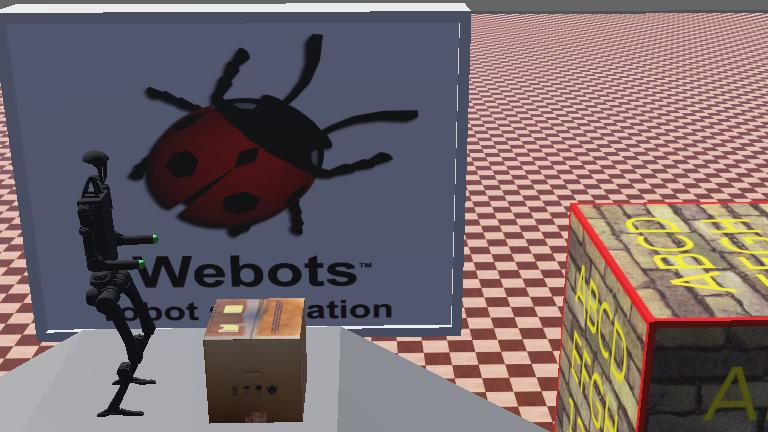
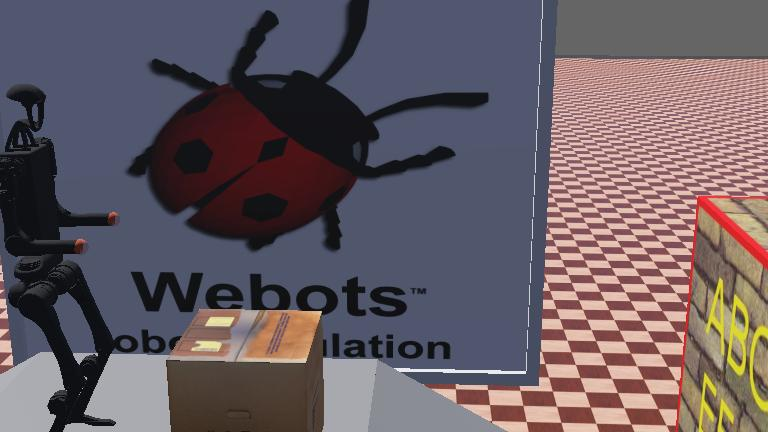
TSV; Add wrist touch sensor under the guidance of example; Remove virtual EE solid which is used to get wrist twist at the stage of debugging stateestimation;

diff --git a/src/unitree_wbc/example/src/webotsInterface.cpp b/src/unitree_wbc/example/src/webotsInterface.cpp
@@ -66,8 +66,8 @@ void WebotsRobot::initWebots()
     Pelvis = robot->getFromDef("UnitreeH1");
     SoleLeft = robot->getFromDef("LeftFootSole");
     SoleRight = robot->getFromDef("RightFootSole");
-    ArmHandLeft = robot->getFromDef("LeftArmSole");
-    ArmHandRight = robot->getFromDef("RightArmSole");
+    // ArmHandLeft = robot->getFromDef("LeftArmSole");
+    // ArmHandRight = robot->getFromDef("RightArmSole");
 
     // Enable sensors
     for (int i = 0; i < NJ; i++) {
@@ -170,26 +170,33 @@ bool WebotsRobot::readData(double simTime, webotsState & robotStateSim)
     robotStateSim.RightSoleXyzRpyAct.head(3) << a3[0], a3[1], a3[2];
     robotStateSim.RightSoleXyzRpyAct.tail(3) = rotm2Rpy(a4);
 
-    //Arm xyz and rpy @Danny240516
-    const double* b1 = ArmHandLeft->getPosition();
-    const double* b2Array = ArmHandLeft->getOrientation();
-    Eigen::Matrix3d b2;
-    b2 << b2Array[0], b2Array[1], b2Array[2],
-        b2Array[3], b2Array[4], b2Array[5],
-        b2Array[6], b2Array[7], b2Array[8];
+    /**
+     * Arm xyz and rpy from webots @Danny240516
+     * \deprecated The virtual EE is used to get wrist's twist; 
+     *             Now substitude it with wrist touch sensor @Danny241023 
+     *  
+     *  const double* b1 = ArmHandLeft->getPosition();
+        const double* b2Array = ArmHandLeft->getOrientation();
+        Eigen::Matrix3d b2;
+        b2 << b2Array[0], b2Array[1], b2Array[2],
+            b2Array[3], b2Array[4], b2Array[5],
+            b2Array[6], b2Array[7], b2Array[8];
 
-    const double* b3 = ArmHandRight->getPosition();
-    const double* b4Array = ArmHandRight->getOrientation();
-    Eigen::Matrix3d b4;
-    b4 << b4Array[0], b4Array[1], b4Array[2],
-        b4Array[3], b4Array[4], b4Array[5],
-        b4Array[6], b4Array[7], b4Array[8];
+        const double* b3 = ArmHandRight->getPosition();
+        const double* b4Array = ArmHandRight->getOrientation();
+        Eigen::Matrix3d b4;
+        b4 << b4Array[0], b4Array[1], b4Array[2],
+            b4Array[3], b4Array[4], b4Array[5],
+            b4Array[6], b4Array[7], b4Array[8];
 
-    robotStateSim.LeftArmHandXyzRpyAct.head(3) << b1[0], b1[1], b1[2];
-    robotStateSim.LeftArmHandXyzRpyAct.tail(3) = rotm2Rpy(b2);
+        robotStateSim.LeftArmHandXyzRpyAct.head(3) << b1[0], b1[1], b1[2];
+        robotStateSim.LeftArmHandXyzRpyAct.tail(3) = rotm2Rpy(b2);
 
-    robotStateSim.RightArmHandXyzRpyAct.head(3) << b3[0], b3[1], b3[2];
-    robotStateSim.RightArmHandXyzRpyAct.tail(3) = rotm2Rpy(b4);
+        robotStateSim.RightArmHandXyzRpyAct.head(3) << b3[0], b3[1], b3[2];
+        robotStateSim.RightArmHandXyzRpyAct.tail(3) = rotm2Rpy(b4);
+     */
+
+
 
     return true;
 }

diff --git a/src/unitree_wbc/example/src/main.cpp b/src/unitree_wbc/example/src/main.cpp
@@ -14,7 +14,6 @@ using namespace std;
 
 bool runWebots(ros::Publisher& joint_pos_pub, ros::Publisher& sim_info_pub);
 
-// The arguments of the main() can be specified by the "controllerArgs" field of the Robot node.
 int main(int argc, char **argv) {
     ros::init(argc, argv, "webots_controller");
     ros::NodeHandle nh;
@@ -52,7 +51,6 @@ bool runWebots(ros::Publisher& joint_pos_pub, ros::Publisher& sim_info_pub){
     
     // integrator
     Integrator integrator;
-    // double flagStartCtrl{}; 
 
     // ros init
     std_msgs::Float64MultiArray joint_pos_msg;
@@ -115,7 +113,6 @@ bool runWebots(ros::Publisher& joint_pos_pub, ros::Publisher& sim_info_pub){
 //universal set toq / pos
             // jointToqCmd(16) = 0;
             bipedWebots.setMotorTau(jointToqCmd);
-            
             // bipedWebots.setMotorPos(jointPosInteg);
 
 

diff --git a/src/unitree_wbc/example/include/webotsInterface.h b/src/unitree_wbc/example/include/webotsInterface.h
@@ -82,8 +82,8 @@ struct webotsState
     Eigen::VectorXd pelvisXyzDXyzAct = Eigen::VectorXd::Zero(6);
     Eigen::VectorXd LeftSoleXyzRpyAct = Eigen::VectorXd::Zero(6);
     Eigen::VectorXd RightSoleXyzRpyAct = Eigen::VectorXd::Zero(6);
-    Eigen::VectorXd LeftArmHandXyzRpyAct = Eigen::VectorXd::Zero(6);
-    Eigen::VectorXd RightArmHandXyzRpyAct = Eigen::VectorXd::Zero(6);
+    // Eigen::VectorXd LeftArmHandXyzRpyAct = Eigen::VectorXd::Zero(6);
+    // Eigen::VectorXd RightArmHandXyzRpyAct = Eigen::VectorXd::Zero(6);
 };
 
 /**
@@ -122,8 +122,8 @@ private:
     Node* Pelvis;
     Node* SoleLeft;
     Node* SoleRight;
-    Node* ArmHandLeft;
-    Node* ArmHandRight;
+    // Node* ArmHandLeft;
+    // Node* ArmHandRight;
 
     std::vector<Derivative> dRpy;
     std::vector<Derivative> dJnt;
